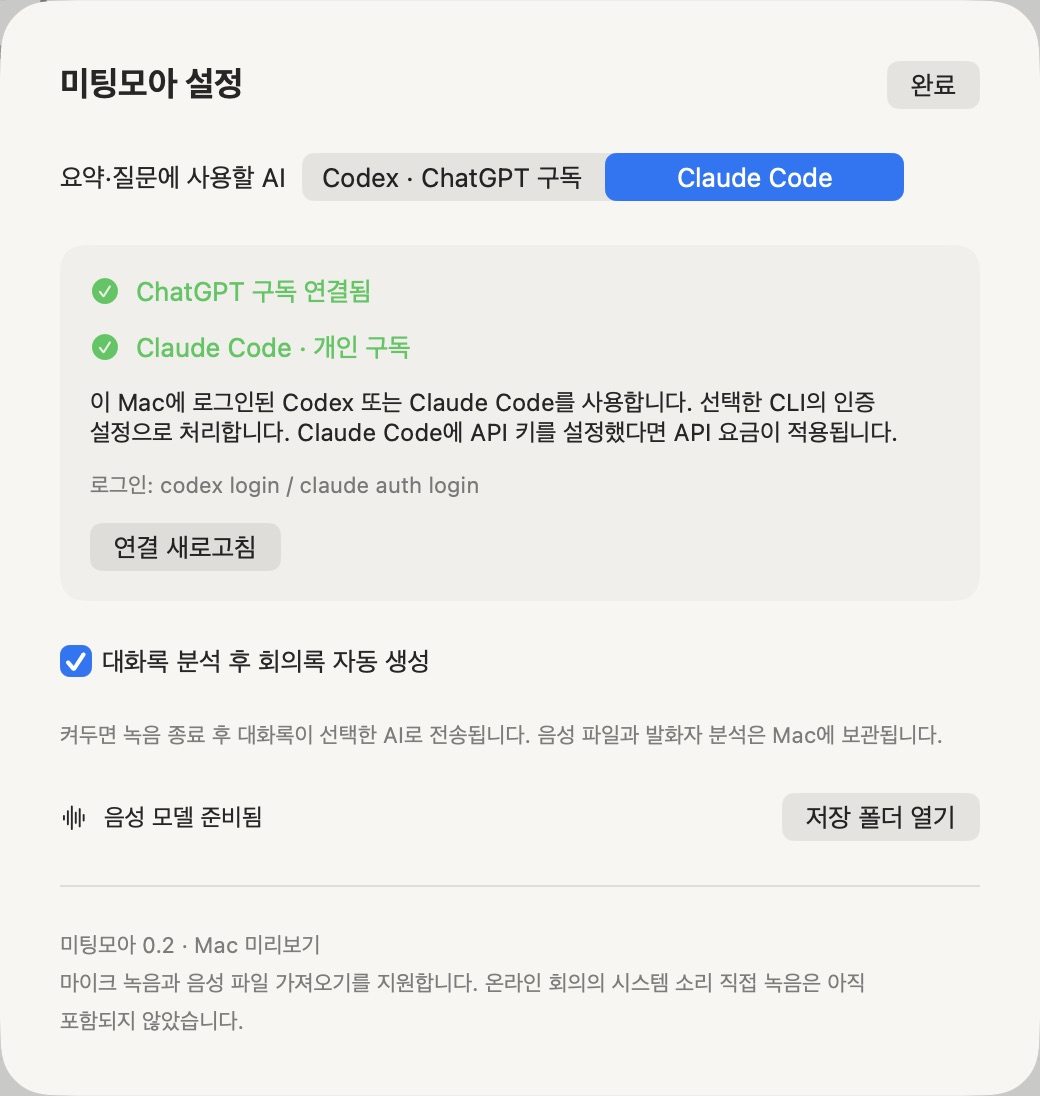
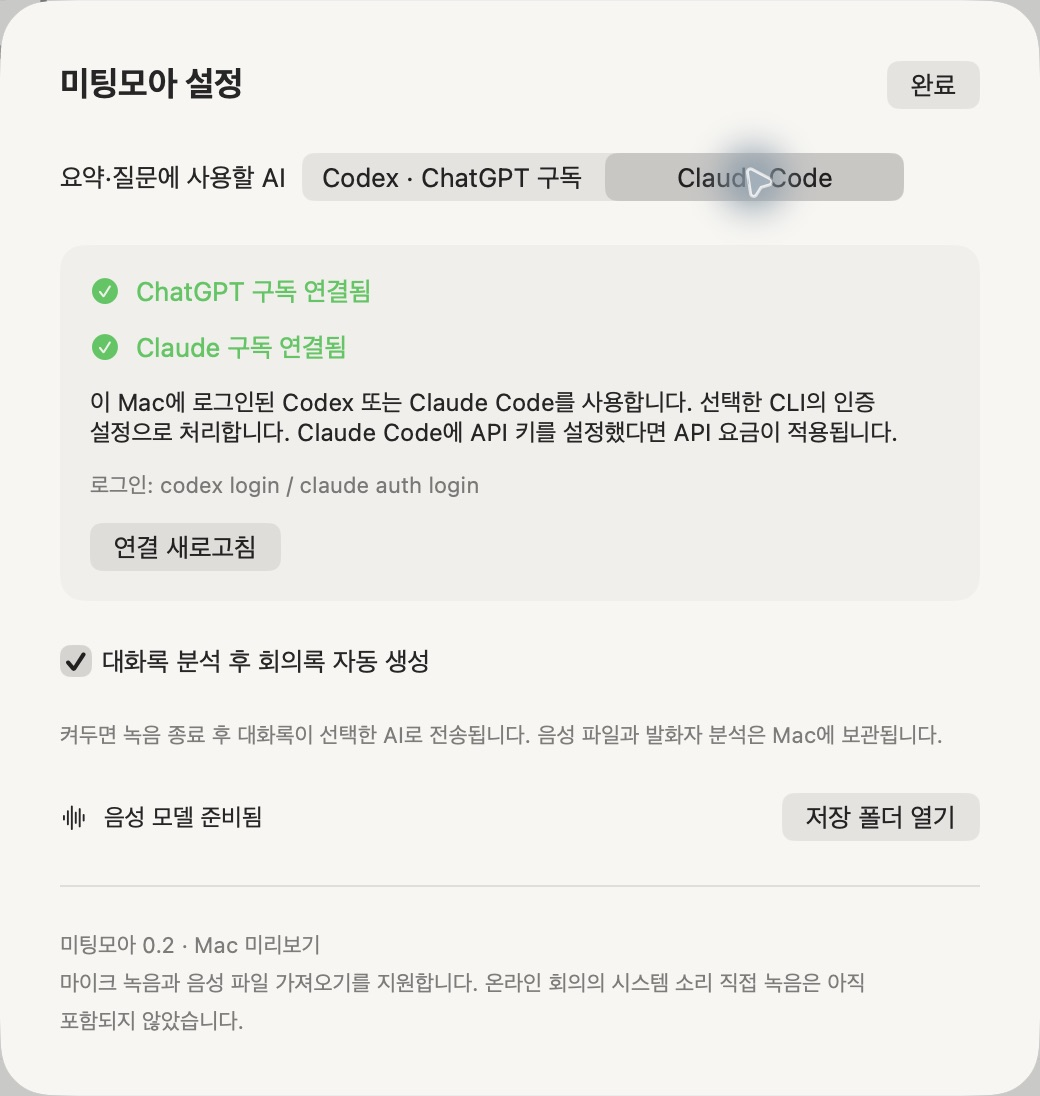
Unify subscription connection labels in AI settings

Changed region(s): [[0.5846, 0.1241, 0.8923, 0.2172], [0.2154, 0.3102, 0.4, 0.3412], [0.0615, 0.5894, 0.0923, 0.6204]]

diff --git a/Sources/MoaMeeting/Views.swift b/Sources/MoaMeeting/Views.swift
@@ -391,7 +391,7 @@ struct SettingsView: View {
             GroupBox {
                 VStack(alignment:.leading,spacing:12) {
                     Label(store.codexReady ? "ChatGPT 구독 연결됨" : "ChatGPT 로그인 필요", systemImage:store.codexReady ? "checkmark.circle.fill" : "circle").foregroundStyle(store.codexReady ? .green : .secondary)
-                    Label(store.claudeReady ? "Claude Code · \(store.claudeAuthLabel)" : "Claude Code 로그인 필요", systemImage:store.claudeReady ? "checkmark.circle.fill" : "circle").foregroundStyle(store.claudeReady ? .green : .secondary)
+                    Label(store.claudeReady ? (store.claudeAuthLabel == "개인 구독" ? "Claude 구독 연결됨" : "Claude API / 외부 제공자 연결됨") : "Claude 로그인 필요", systemImage:store.claudeReady ? "checkmark.circle.fill" : "circle").foregroundStyle(store.claudeReady ? .green : .secondary)
                     Text("이 Mac에 로그인된 Codex 또는 Claude Code를 사용합니다. 선택한 CLI의 인증 설정으로 처리합니다. Claude Code에 API 키를 설정했다면 API 요금이 적용됩니다.").font(.system(size:12)).fixedSize(horizontal:false,vertical:true)
                     Text("로그인: codex login / claude auth login").font(.system(size:11)).foregroundStyle(.secondary).textSelection(.enabled)
                     Button(store.checkingConnections ? "확인 중…" : "연결 새로고침") { store.checkConnections() }.disabled(store.checkingConnections)
